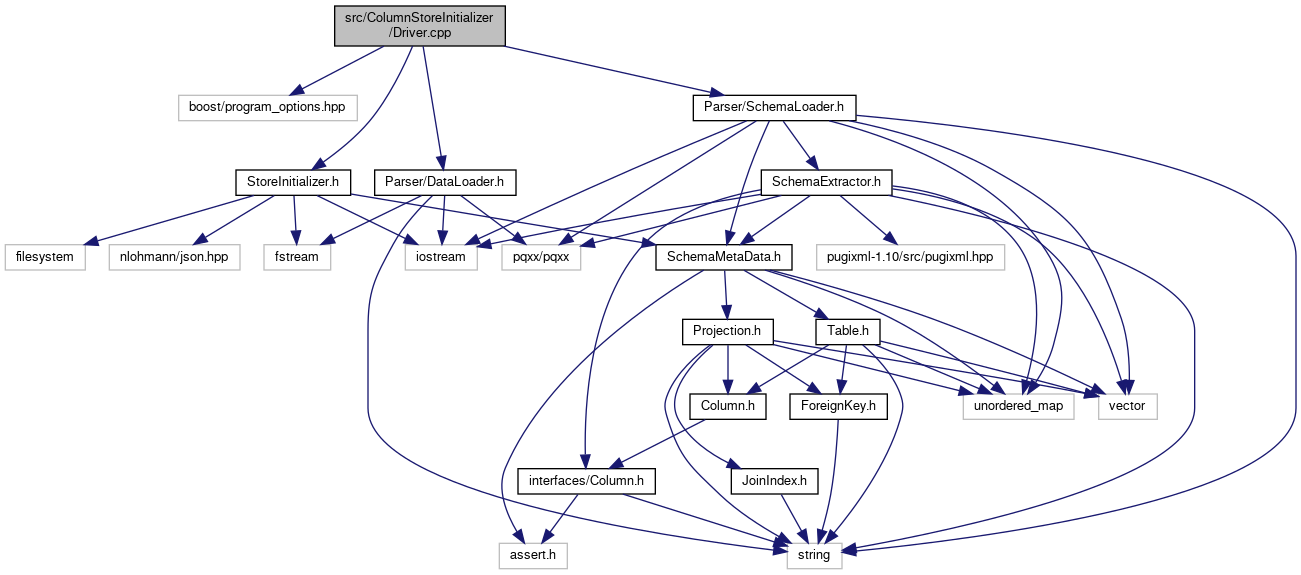
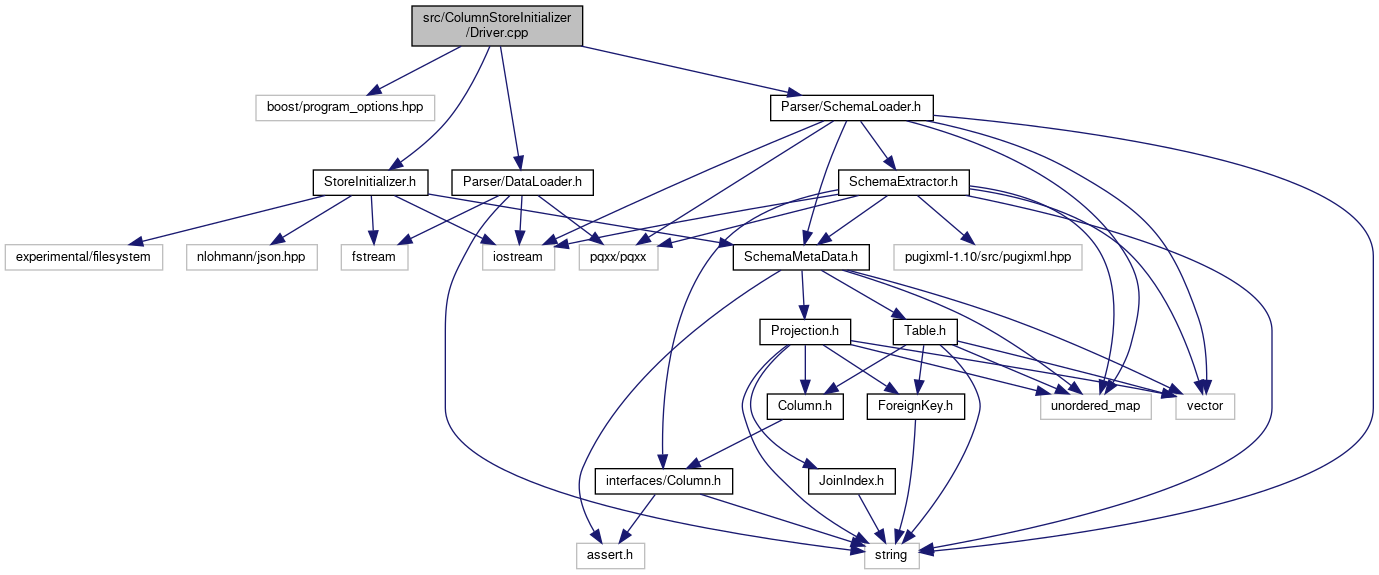
deploy: a5f1a51b3391cd684ae4e5ecac4b064e85c5bbaa

diff --git a/_driver_8cpp.html b/_driver_8cpp.html
@@ -81,29 +81,29 @@ Include dependency graph for Driver.cpp:</div>
 <div class="dyncontent">
 <div class="center"><img src="_driver_8cpp__incl.png" border="0" usemap="#src_2_column_store_initializer_2_driver_8cpp" alt=""/></div>
 <map name="src_2_column_store_initializer_2_driver_8cpp" id="src_2_column_store_initializer_2_driver_8cpp">
-<area shape="rect" title=" " alt="" coords="335,5,505,47"/>
-<area shape="rect" title=" " alt="" coords="179,95,357,121"/>
-<area shape="rect" href="_data_loader_8h.html" title=" " alt="" coords="375,169,516,196"/>
-<area shape="rect" href="_schema_loader_8h.html" title=" " alt="" coords="693,95,856,121"/>
-<area shape="rect" href="_store_initializer_8h.html" title=" " alt="" coords="236,169,351,196"/>
-<area shape="rect" title=" " alt="" coords="264,244,331,271"/>
-<area shape="rect" title=" " alt="" coords="405,244,477,271"/>
-<area shape="rect" title=" " alt="" coords="502,244,581,271"/>
-<area shape="rect" title=" " alt="" coords="787,543,842,569"/>
-<area shape="rect" title=" " alt="" coords="963,393,1074,420"/>
-<area shape="rect" title=" " alt="" coords="1099,393,1157,420"/>
-<area shape="rect" href="_schema_extractor_8h.html" title=" " alt="" coords="761,169,892,196"/>
-<area shape="rect" href="_schema_meta_data_8h.html" title=" " alt="" coords="656,244,792,271"/>
-<area shape="rect" href="interfaces_2_column_8h.html" title="Column Metadata and Type information." alt="" coords="518,468,655,495"/>
-<area shape="rect" title=" " alt="" coords="817,244,1005,271"/>
-<area shape="rect" title=" " alt="" coords="499,543,567,569"/>
-<area shape="rect" href="_projection_8h.html" title=" " alt="" coords="683,319,773,345"/>
-<area shape="rect" href="_table_8h.html" title=" " alt="" coords="816,319,880,345"/>
-<area shape="rect" href="_parser_2_column_8h.html" title=" " alt="" coords="690,393,766,420"/>
-<area shape="rect" href="_foreign_key_8h.html" title=" " alt="" coords="790,393,887,420"/>
-<area shape="rect" href="_join_index_8h.html" title=" " alt="" coords="731,468,818,495"/>
-<area shape="rect" title=" " alt="" coords="5,244,85,271"/>
-<area shape="rect" title=" " alt="" coords="109,244,240,271"/>
+<area shape="rect" title=" " alt="" coords="412,5,583,47"/>
+<area shape="rect" title=" " alt="" coords="256,95,435,121"/>
+<area shape="rect" href="_data_loader_8h.html" title=" " alt="" coords="452,169,593,196"/>
+<area shape="rect" href="_schema_loader_8h.html" title=" " alt="" coords="771,95,933,121"/>
+<area shape="rect" href="_store_initializer_8h.html" title=" " alt="" coords="313,169,428,196"/>
+<area shape="rect" title=" " alt="" coords="341,244,408,271"/>
+<area shape="rect" title=" " alt="" coords="483,244,555,271"/>
+<area shape="rect" title=" " alt="" coords="579,244,658,271"/>
+<area shape="rect" title=" " alt="" coords="865,543,919,569"/>
+<area shape="rect" title=" " alt="" coords="1041,393,1151,420"/>
+<area shape="rect" title=" " alt="" coords="1176,393,1235,420"/>
+<area shape="rect" href="_schema_extractor_8h.html" title=" " alt="" coords="839,169,969,196"/>
+<area shape="rect" href="_schema_meta_data_8h.html" title=" " alt="" coords="733,244,869,271"/>
+<area shape="rect" href="interfaces_2_column_8h.html" title="Column Metadata and Type information." alt="" coords="595,468,733,495"/>
+<area shape="rect" title=" " alt="" coords="894,244,1082,271"/>
+<area shape="rect" title=" " alt="" coords="577,543,645,569"/>
+<area shape="rect" href="_projection_8h.html" title=" " alt="" coords="760,319,851,345"/>
+<area shape="rect" href="_table_8h.html" title=" " alt="" coords="893,319,957,345"/>
+<area shape="rect" href="_parser_2_column_8h.html" title=" " alt="" coords="767,393,843,420"/>
+<area shape="rect" href="_foreign_key_8h.html" title=" " alt="" coords="867,393,965,420"/>
+<area shape="rect" href="_join_index_8h.html" title=" " alt="" coords="809,468,895,495"/>
+<area shape="rect" title=" " alt="" coords="5,244,163,271"/>
+<area shape="rect" title=" " alt="" coords="187,244,317,271"/>
 </map>
 </div>
 </div><table class="memberdecls">

diff --git a/_store_initializer_8h.html b/_store_initializer_8h.html
@@ -73,7 +73,7 @@ $(function() {
 <div class="title">StoreInitializer.h File Reference</div>  </div>
 </div><!--header-->
 <div class="contents">
-<div class="textblock"><code>#include &lt;filesystem&gt;</code><br />
+<div class="textblock"><code>#include &lt;experimental/filesystem&gt;</code><br />
 <code>#include &lt;fstream&gt;</code><br />
 <code>#include &lt;iostream&gt;</code><br />
 <code>#include &lt;nlohmann/json.hpp&gt;</code><br />
@@ -83,22 +83,22 @@ Include dependency graph for StoreInitializer.h:</div>
 <div class="dyncontent">
 <div class="center"><img src="_store_initializer_8h__incl.png" border="0" usemap="#src_2_column_store_initializer_2_store_initializer_8h" alt=""/></div>
 <map name="src_2_column_store_initializer_2_store_initializer_8h" id="src_2_column_store_initializer_2_store_initializer_8h">
-<area shape="rect" title=" " alt="" coords="151,5,321,47"/>
-<area shape="rect" title=" " alt="" coords="5,95,85,121"/>
-<area shape="rect" title=" " alt="" coords="109,95,176,121"/>
-<area shape="rect" title=" " alt="" coords="200,95,272,121"/>
-<area shape="rect" title=" " alt="" coords="296,95,427,121"/>
-<area shape="rect" href="_schema_meta_data_8h.html" title=" " alt="" coords="451,95,629,121"/>
-<area shape="rect" title=" " alt="" coords="269,393,337,420"/>
-<area shape="rect" title=" " alt="" coords="775,244,886,271"/>
-<area shape="rect" title=" " alt="" coords="419,244,477,271"/>
-<area shape="rect" href="_projection_8h.html" title=" " alt="" coords="605,169,696,196"/>
-<area shape="rect" href="_table_8h.html" title=" " alt="" coords="508,169,572,196"/>
-<area shape="rect" title=" " alt="" coords="623,393,678,420"/>
-<area shape="rect" href="_parser_2_column_8h.html" title=" " alt="" coords="502,244,578,271"/>
-<area shape="rect" href="_foreign_key_8h.html" title=" " alt="" coords="602,244,699,271"/>
-<area shape="rect" href="_join_index_8h.html" title=" " alt="" coords="691,319,778,345"/>
-<area shape="rect" href="interfaces_2_column_8h.html" title="Column Metadata and Type information." alt="" coords="287,319,425,345"/>
+<area shape="rect" title=" " alt="" coords="228,5,399,47"/>
+<area shape="rect" title=" " alt="" coords="5,95,163,121"/>
+<area shape="rect" title=" " alt="" coords="187,95,253,121"/>
+<area shape="rect" title=" " alt="" coords="277,95,349,121"/>
+<area shape="rect" title=" " alt="" coords="373,95,504,121"/>
+<area shape="rect" href="_schema_meta_data_8h.html" title=" " alt="" coords="528,95,707,121"/>
+<area shape="rect" title=" " alt="" coords="346,393,414,420"/>
+<area shape="rect" title=" " alt="" coords="853,244,963,271"/>
+<area shape="rect" title=" " alt="" coords="496,244,555,271"/>
+<area shape="rect" href="_projection_8h.html" title=" " alt="" coords="683,169,773,196"/>
+<area shape="rect" href="_table_8h.html" title=" " alt="" coords="585,169,649,196"/>
+<area shape="rect" title=" " alt="" coords="701,393,755,420"/>
+<area shape="rect" href="_parser_2_column_8h.html" title=" " alt="" coords="579,244,655,271"/>
+<area shape="rect" href="_foreign_key_8h.html" title=" " alt="" coords="679,244,777,271"/>
+<area shape="rect" href="_join_index_8h.html" title=" " alt="" coords="769,319,855,345"/>
+<area shape="rect" href="interfaces_2_column_8h.html" title="Column Metadata and Type information." alt="" coords="365,319,502,345"/>
 </map>
 </div>
 </div><div class="textblock"><div class="dynheader">

diff --git a/_store_initializer_8h_source.html b/_store_initializer_8h_source.html
@@ -70,14 +70,14 @@ $(function() {
 </div><!--header-->
 <div class="contents">
 <a href="_store_initializer_8h.html">Go to the documentation of this file.</a><div class="fragment"><div class="line"><a name="l00001"></a><span class="lineno">    1</span>&#160;<span class="preprocessor">#pragma once</span></div>
-<div class="line"><a name="l00002"></a><span class="lineno">    2</span>&#160;<span class="preprocessor">#include &lt;filesystem&gt;</span></div>
+<div class="line"><a name="l00002"></a><span class="lineno">    2</span>&#160;<span class="preprocessor">#include &lt;experimental/filesystem&gt;</span></div>
 <div class="line"><a name="l00003"></a><span class="lineno">    3</span>&#160;<span class="preprocessor">#include &lt;fstream&gt;</span></div>
 <div class="line"><a name="l00004"></a><span class="lineno">    4</span>&#160;<span class="preprocessor">#include &lt;iostream&gt;</span></div>
 <div class="line"><a name="l00005"></a><span class="lineno">    5</span>&#160;<span class="preprocessor">#include &lt;nlohmann/json.hpp&gt;</span></div>
 <div class="line"><a name="l00006"></a><span class="lineno">    6</span>&#160; </div>
 <div class="line"><a name="l00007"></a><span class="lineno">    7</span>&#160;<span class="preprocessor">#include &quot;<a class="code" href="_schema_meta_data_8h.html">Parser/SchemaMetaData.h</a>&quot;</span></div>
 <div class="line"><a name="l00008"></a><span class="lineno">    8</span>&#160; </div>
-<div class="line"><a name="l00009"></a><span class="lineno">    9</span>&#160;<span class="keyword">namespace </span>fs = std::filesystem;</div>
+<div class="line"><a name="l00009"></a><span class="lineno">    9</span>&#160;<span class="keyword">namespace </span>fs = std::experimental::filesystem::v1;</div>
 <div class="line"><a name="l00010"></a><span class="lineno">   10</span>&#160; </div>
 <div class="line"><a name="l00011"></a><span class="lineno">   11</span>&#160;<span class="keyword">using</span> nlohmann::json;</div>
 <div class="line"><a name="l00012"></a><span class="lineno">   12</span>&#160; </div>
@@ -107,7 +107,7 @@ $(function() {
 <div class="line"><a name="l00036"></a><span class="lineno">   36</span>&#160;}</div>
 <div class="line"><a name="l00037"></a><span class="lineno">   37</span>&#160; </div>
 <div class="line"><a name="l00038"></a><span class="lineno"><a class="line" href="namespace_column_store.html#a02326e9a3370f96a5329e53fe746682c">   38</a></span>&#160;<span class="keywordtype">void</span> <a class="code" href="namespace_column_store.html#a02326e9a3370f96a5329e53fe746682c">createFile</a>(fs::path path) {</div>
-<div class="line"><a name="l00039"></a><span class="lineno">   39</span>&#160;    std::filesystem::create_directories(path.parent_path());</div>
+<div class="line"><a name="l00039"></a><span class="lineno">   39</span>&#160;    fs::create_directories(path.parent_path());</div>
 <div class="line"><a name="l00040"></a><span class="lineno">   40</span>&#160; </div>
 <div class="line"><a name="l00041"></a><span class="lineno">   41</span>&#160;    std::ofstream ofs(path);</div>
 <div class="line"><a name="l00042"></a><span class="lineno">   42</span>&#160;    ofs.close();</div>
